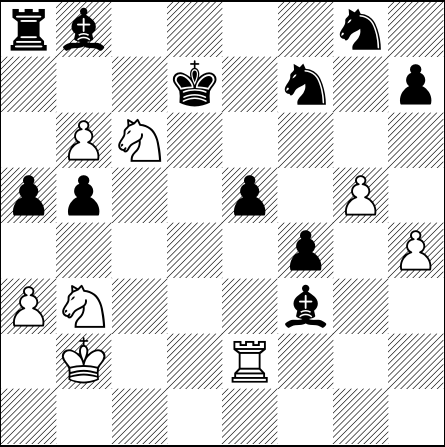
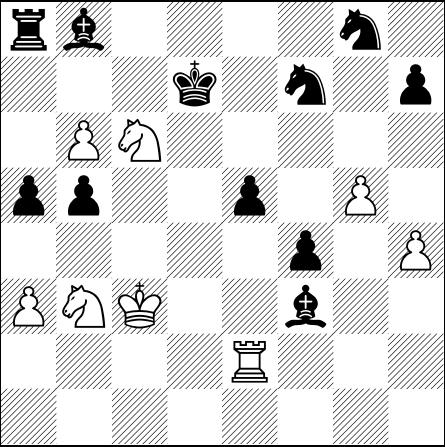
[automated] Regenerate text/pdf for chessboard

Changed region(s): [[0.2629, 0.6398, 0.3798, 0.7562], [0.1169, 0.7562, 0.2337, 0.8725]]

diff --git a/default_filepath.tex b/default_filepath.tex
@@ -13,6 +13,6 @@
 \normalsize%
 \setchessboard{showmover=false}%
 \newgame%
-\fenboard{rb4n1/3k1n1p/1PN5/pp2p1P1/5p1P/PN3b2/1K2R3/8 w - - 1 68}%
+\fenboard{rb4n1/3k1n1p/1PN5/pp2p1P1/5p1P/PNK2b2/4R3/8 b - - 2 68}%
 \chessboard%
 \end{document}
